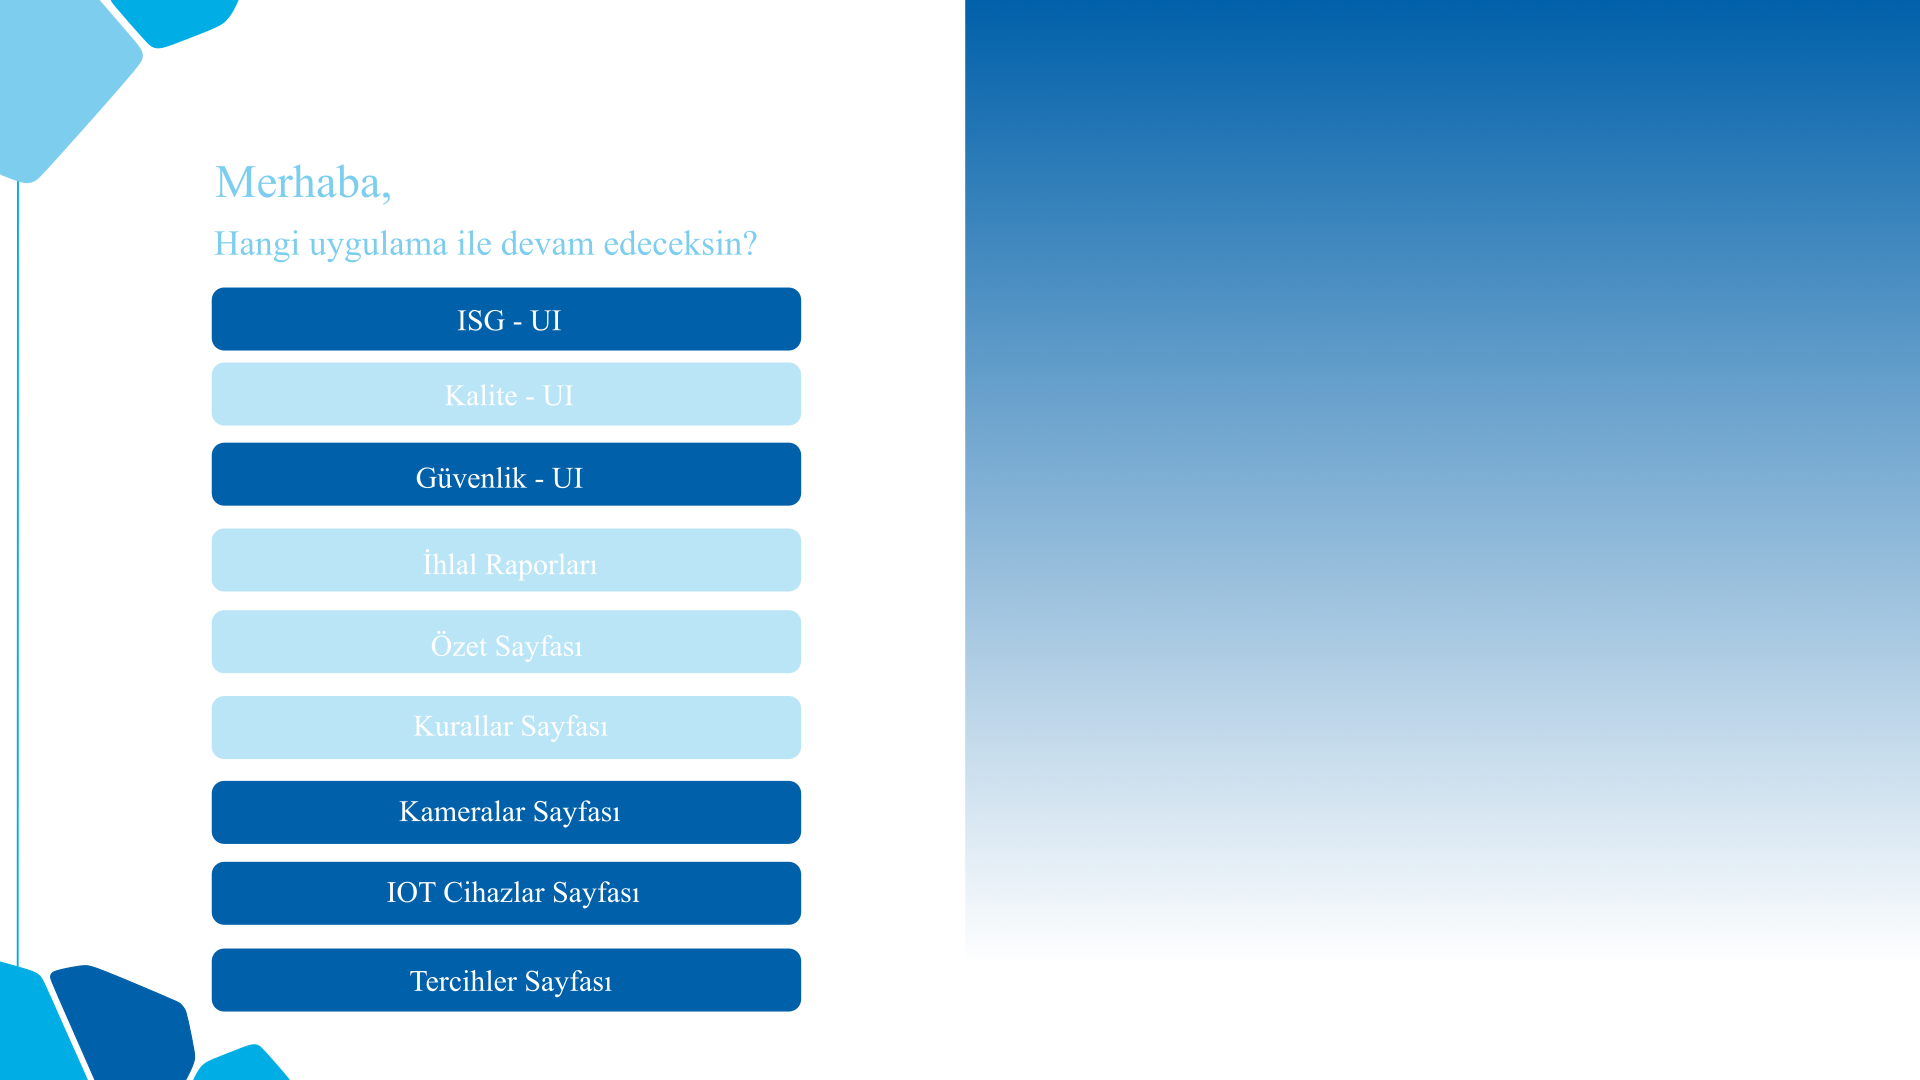
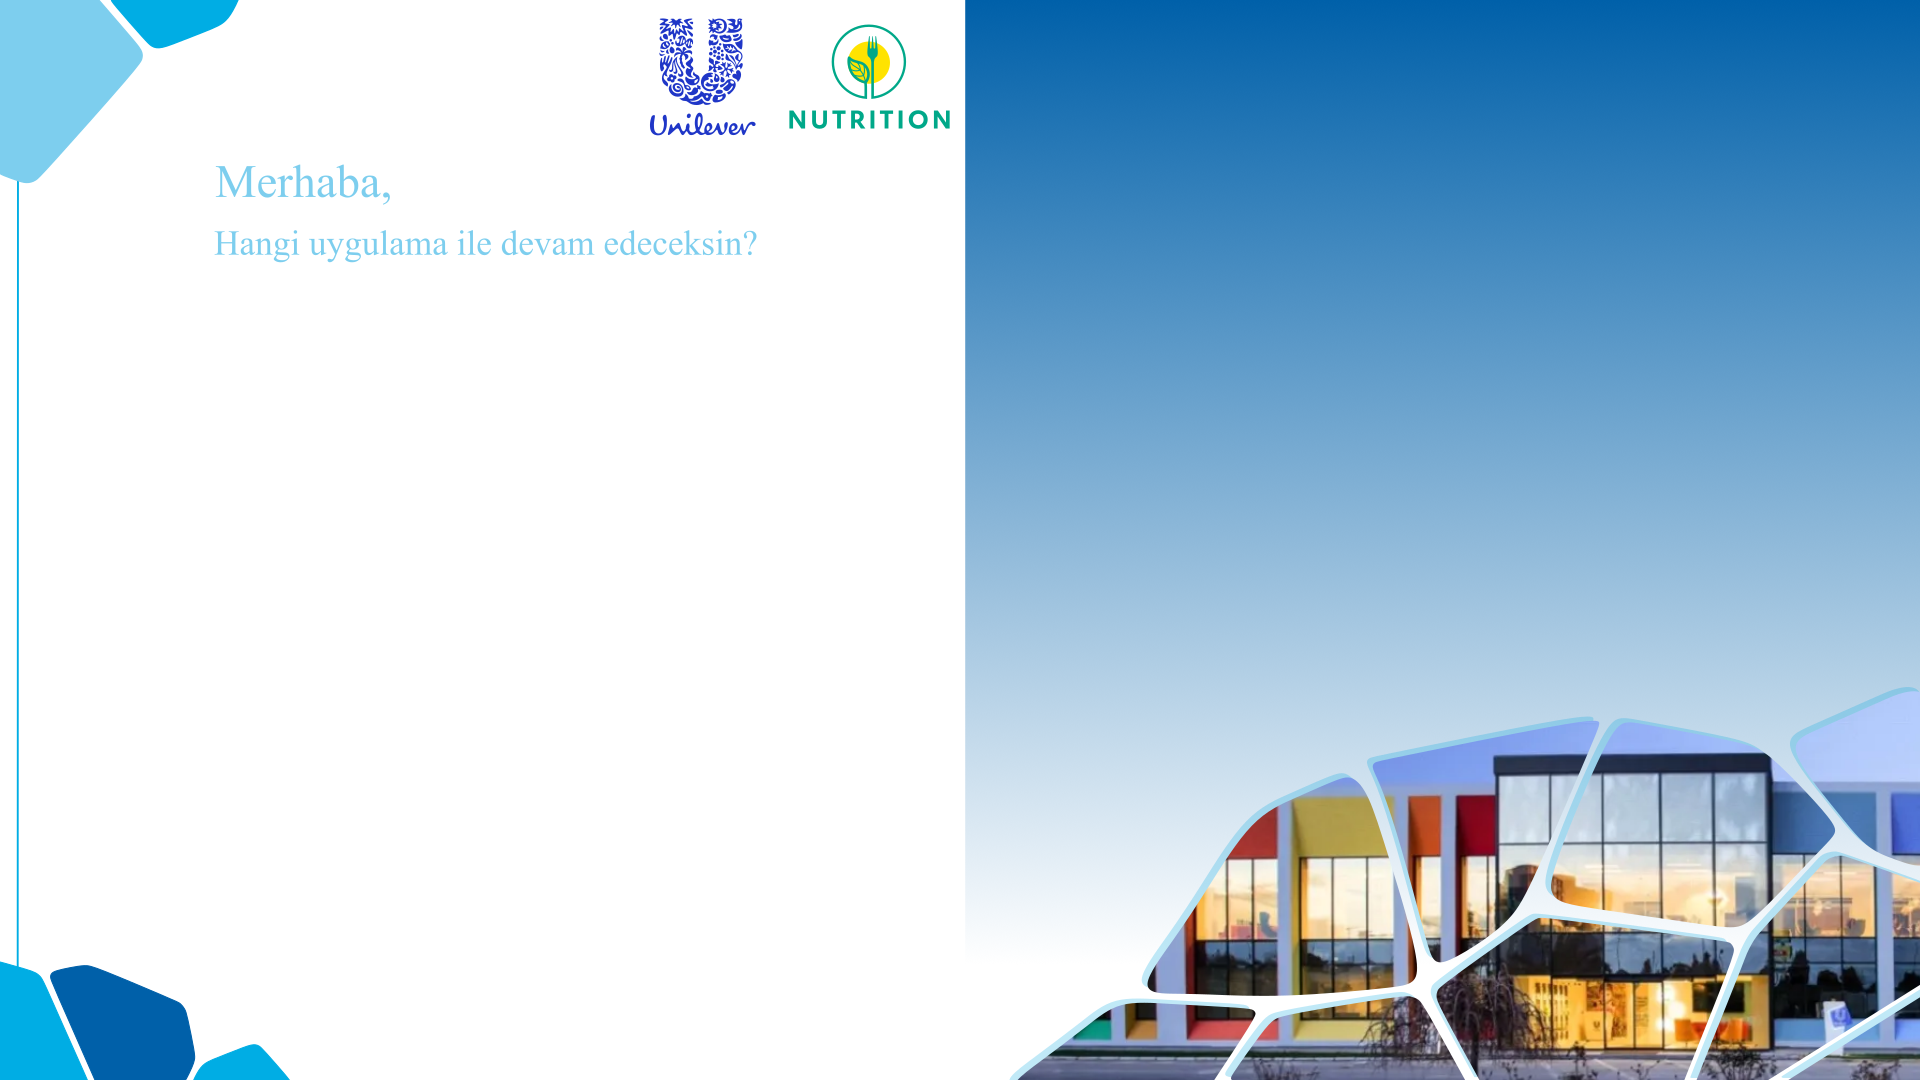
kullanılabilecek app'ler gösterildi

diff --git a/client/pages/which_app_page.py b/client/pages/which_app_page.py
@@ -36,6 +36,31 @@ class WhichApp():
           
         # Draw UI
         picasso.draw_image_on_frame(ui_frame, image_name="which_app_page_template", x=0, y=0, width=1920, height=1080, maintain_aspect_ratio=True)  
+        
+        app_name_to_hr_name = {
+            "ISG_APP": "ISG - UI",
+            "KALITE_APP": "Kalite - UI",
+            "GUVENLIK_APP": "Guvenlik - UI",
+            "IHLAL_RAPORLARI_APP": "Ihlal Raporlari",
+            "OZET_APP": "Ozet Sayfasi",
+            "KURALLAR_APP": "Kurallar Sayfasi",
+            "KAMERALAR_APP": "Kameralar Sayfasi",
+            "IOT_CIHAZLAR_APP": "IoT Cihazlar",
+            "TERCIHLER_APP": "Tercihler Sayfasi",
+        }
+        for app_no, app_name in enumerate(["ISG_APP","KALITE_APP","GUVENLIK_APP","IHLAL_RAPORLARI_APP","OZET_APP","KURALLAR_APP","KAMERALAR_APP","IOT_CIHAZLAR_APP","TERCIHLER_APP"]):        
+            if app_name in active_user.get_token_allowed_tos():
+                picasso.draw_image_on_frame(ui_frame, image_name="app_bar_dark_blue", x=212, y=288+app_no*75, width=589, height=63, maintain_aspect_ratio=True)
+            else:
+                picasso.draw_image_on_frame(ui_frame, image_name="app_bar_light_blue", x=212, y=288+app_no*75, width=589, height=63, maintain_aspect_ratio=True)
+
+            # Place app names in the middle of the app bars
+            text = app_name_to_hr_name[app_name]
+            text_size = cv2.getTextSize(text, cv2.FONT_HERSHEY_SIMPLEX, 1.25, 2)[0]            
+            x = 212 + (589 - text_size[0]) // 2
+            y = 288 + app_no * 75 + 45
+            cv2.putText(ui_frame, text, (x, y), cv2.FONT_HERSHEY_SIMPLEX, 1.25, (255, 255, 255), 2, cv2.LINE_AA)
+
         cv2.putText(ui_frame, f"{active_user.get_token_person_name()}", (410, 195), cv2.FONT_HERSHEY_SIMPLEX, 1.25, (169, 96, 0), 3, cv2.LINE_AA)
 
         cv2.imshow(cv2_window_name, ui_frame)

diff --git a/client/modules/picasso.py b/client/modules/picasso.py
@@ -10,6 +10,8 @@ IMAGE_PATHS = {
 
     "anil_right_looking": "src/icons/anil_right_looking.png",
     "anil_left_looking": "src/icons/anil_left_looking.png",
+    "app_bar_dark_blue": "src/icons/app_bar_dark_blue.png",
+    "app_bar_light_blue": "src/icons/app_bar_light_blue.png",
 }
 
 def get_image_as_frame(image_name:str=None, width:int=1920, height:int=1080, maintain_aspect_ratio:bool = True):
